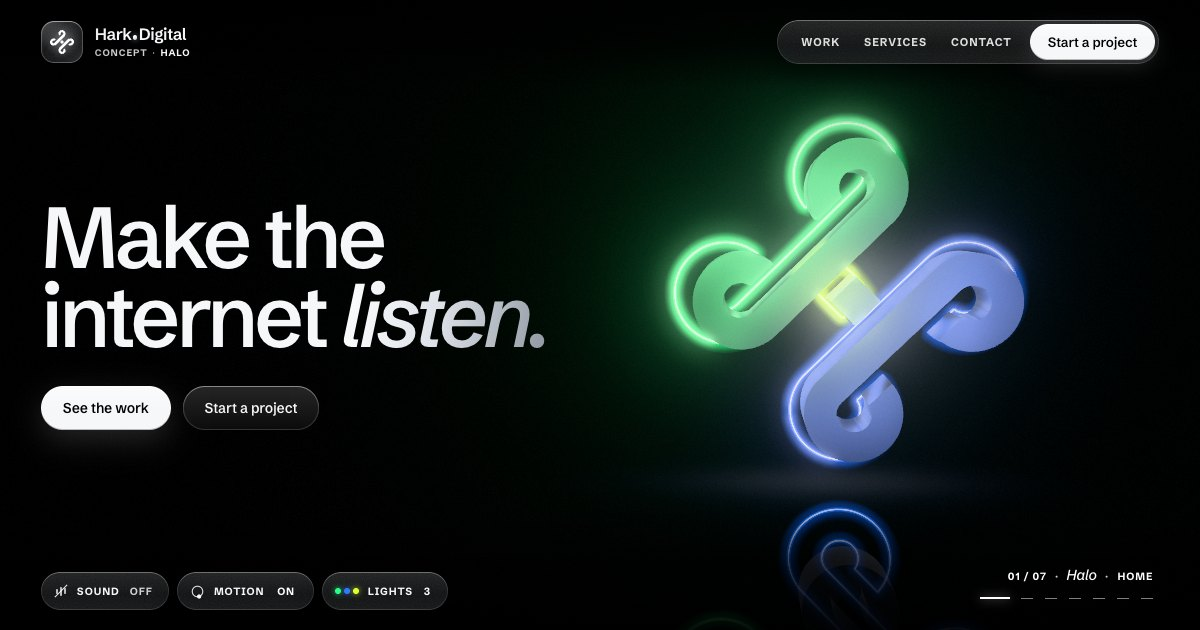
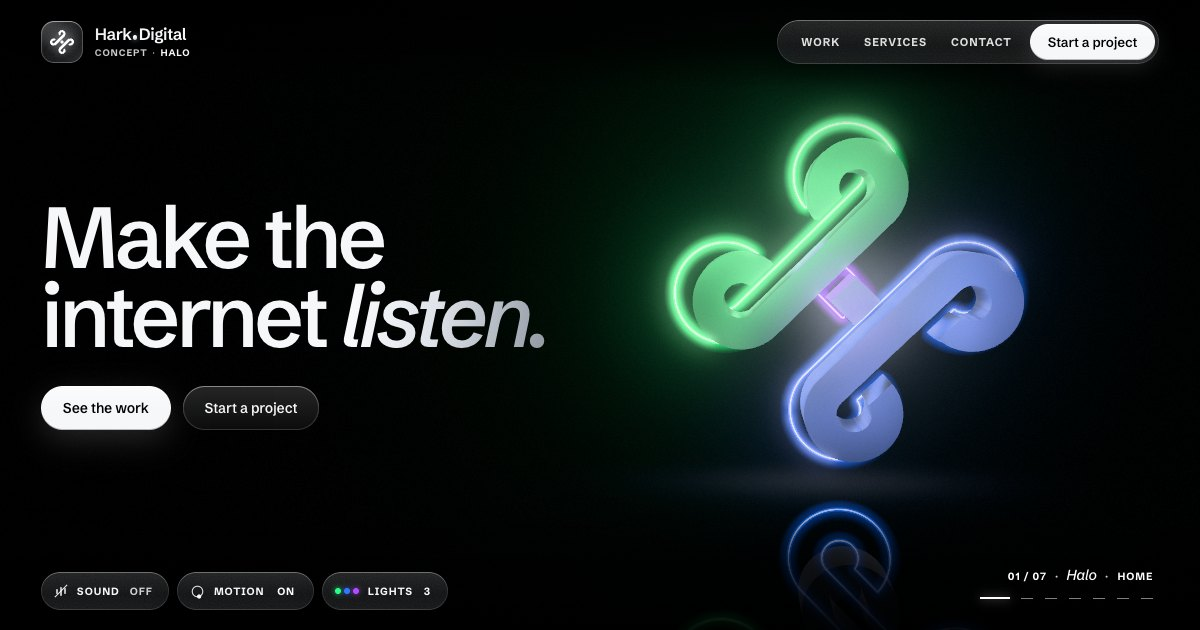
Work leaves are just the site; Aurora's third light is purple
- Work (Carousel): the etched lot label under each screenshot is gone (the
  card names the site); each leaf is now the print in a slim margin, so the
  leaves are about 44% shorter (1.24 vs 2.2 high).
- Lights Option 3: the acid lime is swapped for an electric purple
  (#b24bff): the neon mark's diamond, the third voice / plate / ring tube.
- og.jpg re-shot.

Changed region(s): [[0.6475, 0.3921, 0.74, 0.5127]]

diff --git a/src/chapters/work/scene.ts b/src/chapters/work/scene.ts
@@ -2,7 +2,6 @@ import * as THREE from 'three'
 import { G, neonPath, type NeonPath } from '../../kit/glass'
 import { placeholderTexture } from '../../kit/images'
 import type { WorkItem } from '../../content'
-import { LABEL_PX, lotLabel } from './text'
 
 /*
  * The Carousel set: a revolving glass showroom on the black mirror floor.
@@ -15,7 +14,6 @@ import { LABEL_PX, lotLabel } from './text'
  *             when the leaf is clear (roughness ~0, crisp studio strips),
  *             diffused into soft colour when it is frosted (mip blur + a
  *             jittered sandblast), bleeding into the frosted glass around it.
- *             The lower glass is etched with the leaf's lot number and name.
  *             Transmission-free: the faces are premultiplied-alpha surfaces
  *             (reflections are added at full strength, the print covers, the
  *             margins let the drum's interior through), so the glass buffer
@@ -44,16 +42,16 @@ export const R = 2.0
 export const STEP = (Math.PI * 2) / 6
 const GAP = 5.5 * DEG
 export const LEAF_W = R * (STEP - GAP)
-export const LEAF_H = 2.2
+/** the print: full width inside a slim margin — the leaf is just the site (the card carries the name) */
+const MARGIN = 0.065
+export const SHOT_W = LEAF_W - 2 * MARGIN
+export const SHOT_H = SHOT_W * 0.625
+export const LEAF_H = SHOT_H + 2 * MARGIN
 /** bottom edge height: the leaves stand just off the floor, so the ring shows beneath */
 export const LEAF_Y0 = 0.3
 export const LEAF_CY = LEAF_Y0 + LEAF_H / 2
 const LEAF_T = 0.05
 const CORNER = 0.05
-/** the print: full width inside a slim margin, hung high */
-const MARGIN = 0.065
-export const SHOT_W = LEAF_W - 2 * MARGIN
-export const SHOT_H = SHOT_W * 0.625
 /** the print's centre height (world) */
 export const SHOT_CY = LEAF_Y0 + LEAF_H - MARGIN - SHOT_H / 2
 /** the ring on the floor, inside the drum */
@@ -516,12 +514,8 @@ export function buildCarousel(featured: WorkItem[], rest: WorkItem[], mobile: bo
   const leafBack = faceGeometry(LEAF_W, LEAF_H, LEAF_T / 2, R, true, segX)
   const leafRim = rimGeometry(LEAF_W, LEAF_H, CORNER, LEAF_T / 2, R, mobile ? 150 : 240, mobile ? 6 : 10)
   const rect = new THREE.Vector4(MARGIN / LEAF_W, 1 - (MARGIN + SHOT_H) / LEAF_H, 1 - MARGIN / LEAF_W, 1 - MARGIN / LEAF_H)
-  // the lot label on the lower glass
-  const labW = LEAF_W * 0.8
-  const labH = (labW * LABEL_PX.h) / LABEL_PX.w
-  const labX0 = MARGIN + 0.02
-  const labY0 = 0.3
-  const labelRect = new THREE.Vector4(labX0 / LEAF_W, labY0 / LEAF_H, (labX0 + labW) / LEAF_W, (labY0 + labH) / LEAF_H)
+  // (no etched label on the glass: the leaf is the site; the card names it)
+  const labelRect = new THREE.Vector4(-1, -1, -0.5, -0.5)
   const size = new THREE.Vector2(LEAF_W, LEAF_H)
 
   const leaves: Leaf[] = featured.map((w, k) => {
@@ -534,7 +528,7 @@ export function buildCarousel(featured: WorkItem[], rest: WorkItem[], mobile: bo
     const shot = placeholderTexture('#15171c')
     const u: FaceUniforms = {
       uShot: { value: shot },
-      uLabel: { value: lotLabel(pad(k + 1), w.name, w.industry, isPreview(w.url)) },
+      uLabel: { value: blankLabel },
       uFrost: { value: 1 },
       uLit: { value: 0.5 },
       uRect: { value: rect },

diff --git a/src/kit/palette.ts b/src/kit/palette.ts
@@ -4,7 +4,7 @@
  *
  *   Option 1  the original Halo: electric cyan / electric violet / hot magenta
  *   Option 2  Ember: amber / neon red / hot pink
- *   Option 3  Aurora: neon green / electric blue / acid lime (the default)
+ *   Option 3  Aurora: neon green / electric blue / electric purple (the default)
  *
  * a = loop A (and the first neon of a set), b = loop B, c = the diamond (a third accent).
  * Chosen once at boot: ?lights=N (remembered), else the remembered choice,
@@ -23,7 +23,7 @@ export interface Lights {
 export const LIGHTS: Lights[] = [
   { id: 1, name: 'Option 1', a: '#00e1ff', b: '#a32cff', c: '#ff2bd1' },
   { id: 2, name: 'Option 2', a: '#ffa51f', b: '#ff3326', c: '#ff2f8f' },
-  { id: 3, name: 'Option 3', a: '#27ff86', b: '#2f78ff', c: '#d9ff30' },
+  { id: 3, name: 'Option 3', a: '#27ff86', b: '#2f78ff', c: '#b24bff' },
 ]
 export const DEFAULT_LIGHTS = 3
 
